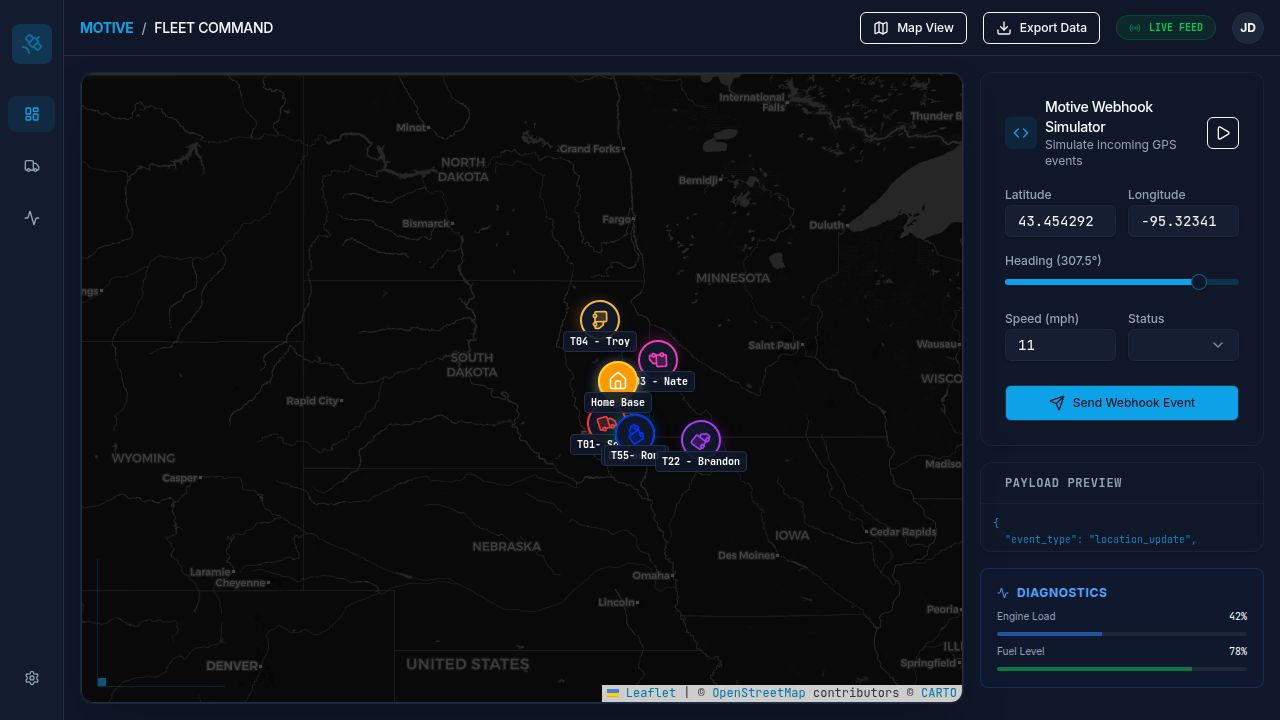
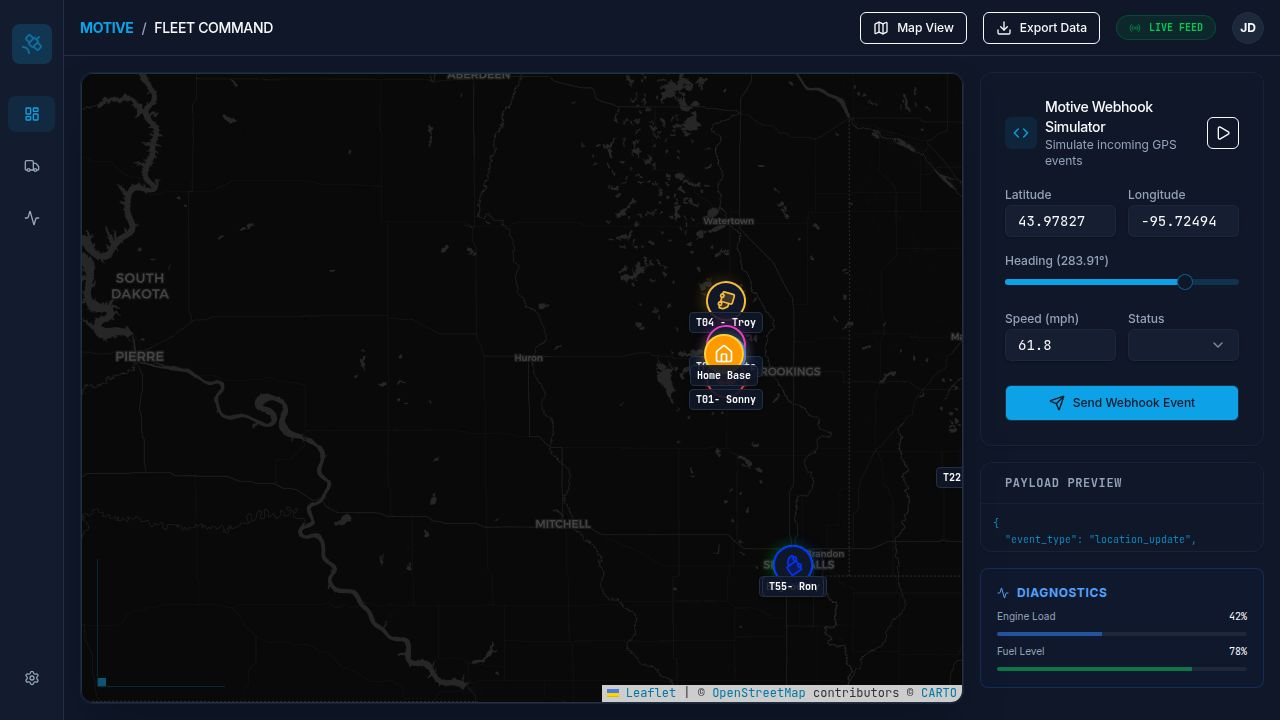
Add a new map view that automatically fits all vehicles
Create a new AutoFitMap page that displays all vehicles and automatically adjusts map bounds to fit them.

Replit-Commit-Author: Agent
Replit-Commit-Session-Id: e7498cd3-7b2d-4182-8123-419b751fce20
Replit-Commit-Checkpoint-Type: full_checkpoint
Replit-Commit-Event-Id: ace0173c-2be6-4a99-a770-0bdcbb44ade5
Replit-Commit-Screenshot-Url: https://storage.googleapis.com/screenshot-production-us-central1/ace454c7-bee5-4a6a-86d3-5bee9a5e898b/e7498cd3-7b2d-4182-8123-419b751fce20/IlDTSKx

diff --git a/client/src/pages/AutoFitMap.tsx b/client/src/pages/AutoFitMap.tsx
@@ -1,0 +1,151 @@
+import { useState, useEffect, useMemo } from "react";
+import TrackingMap from "@/components/TrackingMap";
+import { useWebSocket } from "@/hooks/useWebSocket";
+import { Radio, Satellite, Maximize2 } from "lucide-react";
+
+export default function AutoFitMap() {
+  const [vehicleData, setVehicleData] = useState<{
+    id: string;
+    name?: string;
+    color?: string;
+    location: { lat: number; lon: number };
+    speed: number;
+    status: string;
+    timestamp: string;
+    heading: number;
+  }[]>([]);
+
+  const loadVehicles = async () => {
+    try {
+      const response = await fetch("/api/vehicles");
+      if (response.ok) {
+        const vehicles = await response.json();
+        setVehicleData(vehicles);
+      }
+    } catch (error) {
+      console.error("Error loading vehicles:", error);
+    }
+  };
+
+  useEffect(() => {
+    loadVehicles();
+  }, []);
+
+  const { isConnected } = useWebSocket((data) => {
+    setVehicleData(prev => {
+      const existingIndex = prev.findIndex(v => v.id === data.id);
+      if (existingIndex >= 0) {
+        const updated = [...prev];
+        updated[existingIndex] = {
+          ...updated[existingIndex],
+          location: data.location,
+          speed: data.speed,
+          status: data.status,
+          timestamp: data.timestamp,
+          heading: data.heading
+        };
+        return updated;
+      } else {
+        return [...prev, {
+          id: data.id,
+          name: data.name,
+          color: data.color,
+          location: data.location,
+          speed: data.speed,
+          status: data.status,
+          timestamp: data.timestamp,
+          heading: data.heading
+        }];
+      }
+    });
+  });
+
+  const dynamicBounds = useMemo(() => {
+    if (vehicleData.length === 0) {
+      return {
+        southwest: [43.0, -100.5] as [number, number],
+        northeast: [45.5, -96.0] as [number, number]
+      };
+    }
+
+    const lats = vehicleData.map(v => v.location.lat);
+    const lons = vehicleData.map(v => v.location.lon);
+    
+    const minLat = Math.min(...lats);
+    const maxLat = Math.max(...lats);
+    const minLon = Math.min(...lons);
+    const maxLon = Math.max(...lons);
+    
+    const latPadding = Math.max((maxLat - minLat) * 0.3, 0.05);
+    const lonPadding = Math.max((maxLon - minLon) * 0.3, 0.05);
+    
+    return {
+      southwest: [minLat - latPadding, minLon - lonPadding] as [number, number],
+      northeast: [maxLat + latPadding, maxLon + lonPadding] as [number, number]
+    };
+  }, [vehicleData]);
+
+  const dynamicCenter = useMemo((): [number, number] => {
+    if (vehicleData.length === 0) {
+      return [44.25, -98.25];
+    }
+    const avgLat = vehicleData.reduce((sum, v) => sum + v.location.lat, 0) / vehicleData.length;
+    const avgLon = vehicleData.reduce((sum, v) => sum + v.location.lon, 0) / vehicleData.length;
+    return [avgLat, avgLon];
+  }, [vehicleData]);
+
+  return (
+    <div className="h-screen w-screen relative bg-background">
+      {vehicleData.length > 0 ? (
+        <TrackingMap 
+          data={vehicleData} 
+          onVehicleUpdate={loadVehicles}
+          center={dynamicCenter}
+          bounds={dynamicBounds}
+          zoom={10}
+          minZoom={5}
+          maxZoom={18}
+          autoFitBounds={true}
+        />
+      ) : (
+        <div className="h-full w-full flex flex-col items-center justify-center bg-background text-muted-foreground">
+          <Satellite className="w-16 h-16 mb-4 animate-pulse text-primary/50" />
+          <h2 className="text-lg font-semibold mb-2">Waiting for Vehicle Data</h2>
+          <p className="text-sm text-center max-w-md">
+            No vehicles tracked yet. Data will appear here when Motive sends GPS updates.
+          </p>
+        </div>
+      )}
+
+      <div className="absolute top-4 left-4 z-[1000] flex items-center gap-3">
+        <div className="flex items-center gap-2 px-3 py-1.5 rounded-full border border-primary/30 bg-background/90 backdrop-blur-sm shadow-lg">
+          <Maximize2 className="w-3 h-3 text-primary" />
+          <span className="text-[10px] font-mono font-bold uppercase text-primary">
+            Auto-Fit
+          </span>
+        </div>
+        <div className={`flex items-center gap-2 px-3 py-1.5 rounded-full border bg-background/90 backdrop-blur-sm shadow-lg ${
+          isConnected 
+            ? 'border-green-500/30' 
+            : 'border-yellow-500/30'
+        }`}>
+          <Radio className={`w-3 h-3 ${isConnected ? 'text-green-500 animate-pulse' : 'text-yellow-500'}`} />
+          <span className={`text-[10px] font-mono font-bold uppercase ${
+            isConnected ? 'text-green-500' : 'text-yellow-500'
+          }`}>
+            {isConnected ? 'Live' : 'Connecting...'}
+          </span>
+        </div>
+      </div>
+
+      {vehicleData.length > 0 && (
+        <div className="absolute top-4 right-4 z-[1000] px-3 py-1.5 rounded-full bg-background/90 backdrop-blur-sm border border-border shadow-lg">
+          <span className="text-xs font-mono">
+            <span className="text-primary font-bold">{vehicleData.length}</span>
+            <span className="text-muted-foreground"> vehicle{vehicleData.length !== 1 ? 's' : ''}</span>
+          </span>
+        </div>
+      )}
+    </div>
+  );
+}

diff --git a/client/src/App.tsx b/client/src/App.tsx
@@ -8,12 +8,14 @@ import TrackingDashboard from "@/pages/TrackingDashboard";
 import MapView from "@/pages/MapView";
 import MapEmbed from "@/pages/MapEmbed";
 import SiouxFallsMap from "@/pages/SiouxFallsMap";
+import AutoFitMap from "@/pages/AutoFitMap";
 
 function Router() {
   return (
     <Switch>
       <Route path="/" component={TrackingDashboard} />
       <Route path="/map" component={MapView} />
+      <Route path="/auto-fit" component={AutoFitMap} />
       <Route path="/sioux-falls" component={SiouxFallsMap} />
       <Route path="/embed" component={MapEmbed} />
       <Route component={NotFound} />
